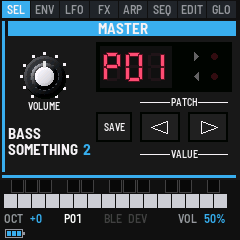
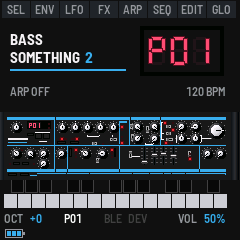
v0.4: HOME page with the whole front panel, encoders by position, Manual Mode
Version references to v0.4: README's release commands, BS2_RELEASE and its
comment, the manual's version mentions (its "from v0.3" SysEx note stays: that
is when the queue came). GLO SYSTEM's screenshot shows v0.4; the site's ready
shot is HOME, the page the FM-1 now starts on. Size log: the Env Select and
button-hint row.

Changed region(s): [[0.0, 0.0, 0.9917, 0.7583], [0.2625, 0.35, 0.2917, 0.3792]]

diff --git a/app.c b/app.c
@@ -2950,9 +2950,9 @@ void app_input_only(void) { input(); }
 #define P_CDIM RGB(18, 54, 74)               /* under a curve; a button lit (#12364a) */
 #define P_KEYW RGB(206, 206, 210)
 #define P_KEYB RGB(10, 10, 10)
-/* the firmware's version as shown (the splash, GLO SYS): a release's "v0.3", a development build's the last release
- * and "DEV" ("v0.3 DEV": built after it; BS2_RELEASE bumped with each release) */
-#define BS2_RELEASE "0.3"
+/* the firmware's version as shown (the splash, GLO SYS): a release's "v0.4", a development build's the last release
+ * and "DEV" ("v0.4 DEV": built after it; BS2_RELEASE bumped with each release) */
+#define BS2_RELEASE "0.4"
 #define VERSION_TEXT (APP_VERSION[0] >= '0' && APP_VERSION[0] <= '9' ? "v" APP_VERSION : "v" BS2_RELEASE " " APP_VERSION)
 static void ui_start(void) { ui.page = PG_HOME; }   /* the first page, after the splash: HOME */
 

diff --git a/docs/MANUAL.md b/docs/MANUAL.md
@@ -46,7 +46,7 @@ the screen, sound and MIDI. There's no Bluetooth or USB host there, and the app 
 doesn't start can be recovered too. For details, see felucca-bsp's `tools/fm1_rescue.sh`.
 
 At power-on the screen shows BASS SOMETHING 2 in cyan, "Inspired by the Bass Station 2" under it, and an oscilloscope whose
-wave morphs from sine to triangle to saw to a sweeping pulse. The firmware's version (such as v0.3) is in the bottom
+wave morphs from sine to triangle to saw to a sweeping pulse. The firmware's version (such as v0.4) is in the bottom
 right corner. Then the panel opens on the patch you last saved. The emulator shows the same splash when you switch it
 on.
 
@@ -717,7 +717,7 @@ save themselves: two seconds after you change one, once the FM-1 is quiet (see S
 without SAVE (so a GLO change never
 writes over your patch), and SAVE doesn't light for them. Each page is a GLOBAL panel with its own bar (MIDI, System,
 SysEx Dump, Display) and a red display: GLOBAL MIDI's shows the MIDI channel (ALL, OFF or the number), GLOBAL
-SYSTEM's the tempo (while MIDI clock leads, its tempo as measured over every two beats; dashes until then), with the knobs' response, the clock's state and the firmware's version (VERSION v0.3)
+SYSTEM's the tempo (while MIDI clock leads, its tempo as measured over every two beats; dashes until then), with the knobs' response, the clock's state and the firmware's version (VERSION v0.4)
 beside it, GLOBAL DUMP's the patch. The on/off settings are slide switches.
 
 On every GLO page, the right of the page's own bar shows the audio's load (for a moment after a change, what changed

diff --git a/README.md b/README.md
@@ -42,12 +42,12 @@ Then, from the repository root:
 
 The site (bs2/build/site), from a release:
 
-    tools/build.py bs2 --release 0.3 && tools/build.py bs2 --web --release 0.3
-    tools/build.py bs2 --rfm1 --release 0.3               # RemoteFM1 (iOS): bs2/build/rfm1/bass_something_2-0.3.rfm1,
+    tools/build.py bs2 --release 0.4 && tools/build.py bs2 --web --release 0.4
+    tools/build.py bs2 --rfm1 --release 0.4               # RemoteFM1 (iOS): bs2/build/rfm1/bass_something_2-0.4.rfm1,
                                                           # a release asset; build it from a pushed commit (its source_url)
-    python3 bs2/site/make_site.py bs2/build/bass-something-2-0.3.fwsc 0.3
+    python3 bs2/site/make_site.py bs2/build/bass-something-2-0.4.fwsc 0.4
     (cd bs2/build/site && python3 -m http.server 8765)    # http://localhost:8765
-    python3 bs2/site/publish_pages.py 0.3                 # https://imijes.github.io/bass-something-2/
+    python3 bs2/site/publish_pages.py 0.4                 # https://imijes.github.io/bass-something-2/
 
 Bass Something 2 is by John Brown ([@imijes](https://github.com/imijes)). Credits for everyone whose work it builds on: `docs/MANUAL.md`, section 12.
 

diff --git a/docs/SIZE_LOG.md b/docs/SIZE_LOG.md
@@ -11,3 +11,4 @@ What each change costs on the FM-1, from the device build (`tools/build.py bs2`)
 | 2026-10-31 | 1750657+ | K1-K4 right to left; SELECT/ALGO/PRESET by position (per-page encoder map) | 303,660 | +160 | 277,904 | 77,300 | +0 | 21,004 | 101,760 |
 | 2026-10-31 | 1750657+ | SUB OSC + MIXER on EDIT (3rd); SEL opens MASTER, HOME free; Osc Select on SELECT, Sync on the PW page | 303,644 | -16 | 277,920 | 77,300 | +0 | 21,004 | 101,760 |
 | 2026-10-31 | 81c188f+ | HOME page: the whole BS2 front panel to the footer keys' scale; HOME button, first page | 308,252 | +4,608 | 273,312 | 77,300 | +0 | 21,004 | 101,760 |
+| 2026-10-31 | fdf92da | Env Select balanced; button hints over the keys | 308,300 | +48 | 273,264 | 77,300 | +0 | 21,004 | 101,760 |
